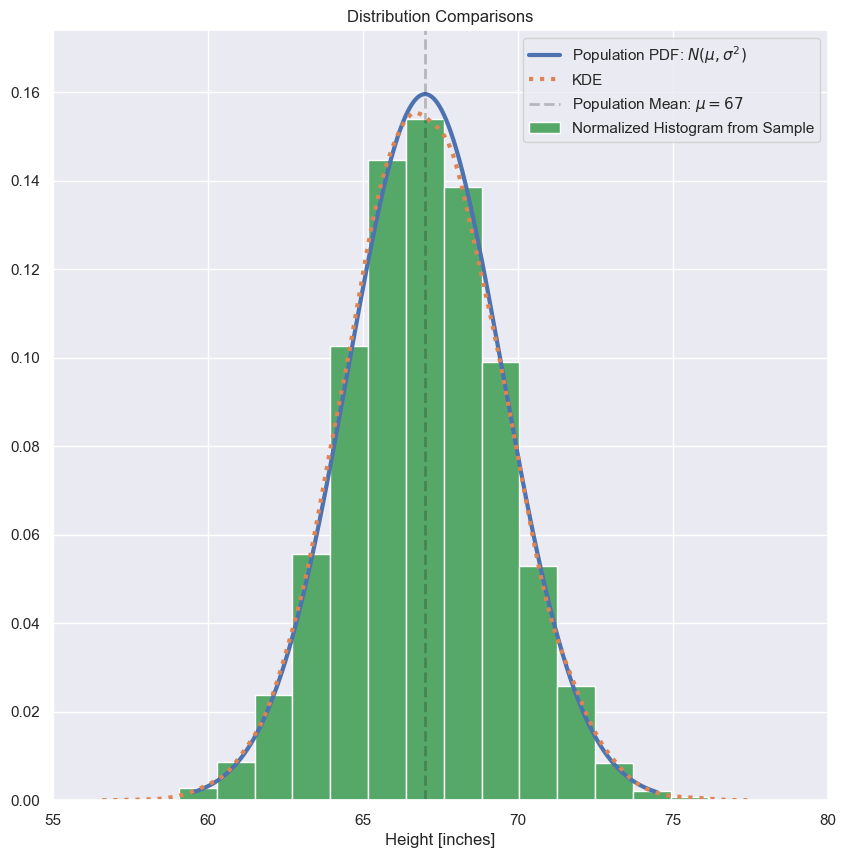
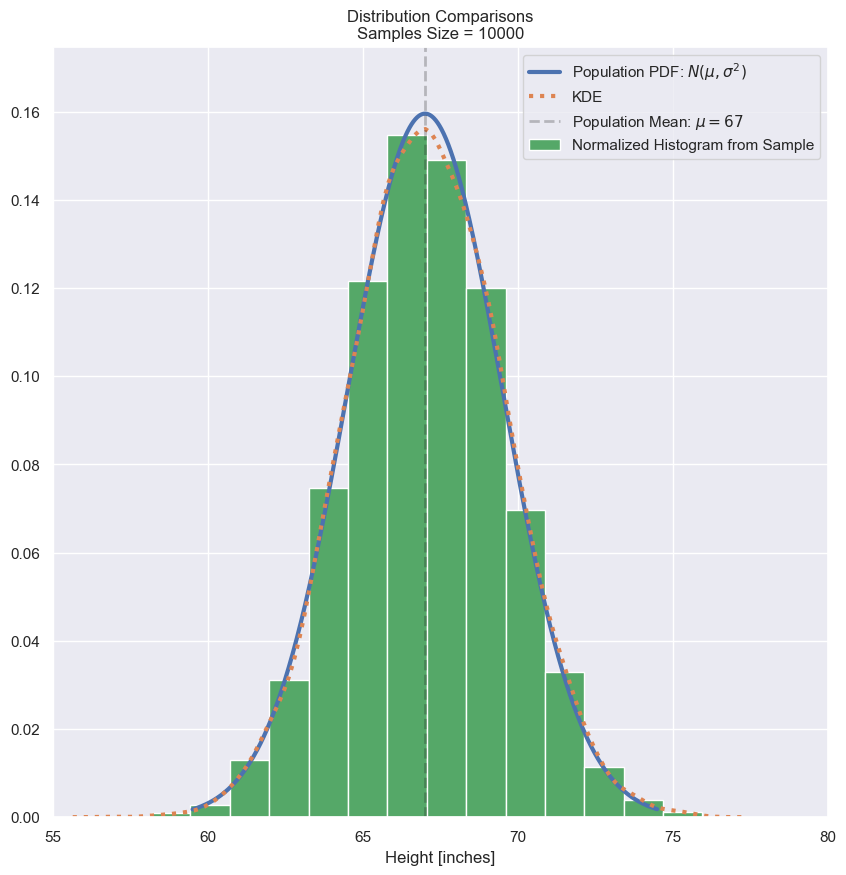
plots with sample size

diff --git a/height_example.py b/height_example.py
@@ -32,7 +32,7 @@ if __name__ == '__main__':
         # Plotting Scatter Plot
         fig, ax = plt.subplots(figsize=(10, 10))
         ax = sns.scatterplot(np.arange(1, n + 1, 1), heights, s=ms, hue=heights, legend='brief')
-        ax.set_title('Height vs. Student')
+        ax.set_title(f'Height vs. Student\nSamples Size = {n}')
         ax.set_xlabel('Student')
         ax.set_ylabel('Height [inches]')
         ax.axhline(y=mu, c='k', linewidth=3, label=r'$\mu = {{{}}}$'.format(mu))  # H-Line for mean
@@ -68,7 +68,7 @@ if __name__ == '__main__':
         (bin_values, _, _) = plt.hist(heights, bins=15, stacked=True, density=True,
                                       label='Normalized Histogram from Sample')
         # plot normalized histogram with 15 bins of sample distribution, returns the probability from those bins
-        plt.title('Distribution Comparisons')
+        plt.title(f'Distribution Comparisons\nSamples Size = {n}')
         plt.xlabel('Height [inches]')
         plt.axvline(x=mu, ymin=0, ymax=1, linestyle='--', alpha=0.25,
                     label=r'Population Mean: $\mu = {{{}}}$'.format(mu),
